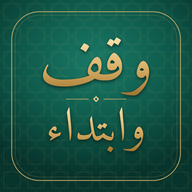
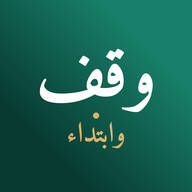
اعتماد الأيقونة المودرن
Claude-Session: https://claude.ai/code/session_01MiH5ppQXnzPuGFahESibeW

diff --git a/sw.js b/sw.js
@@ -1,4 +1,4 @@
-const V='maqati-v2';
+const V='maqati-v3';
 const CORE=['./','index.html','manifest.webmanifest','icon-192.png','icon-512.png','icon-180.png'];
 self.addEventListener('install',e=>{e.waitUntil(caches.open(V).then(c=>c.addAll(CORE)).then(()=>self.skipWaiting()))});
 self.addEventListener('activate',e=>{e.waitUntil(caches.keys().then(ks=>Promise.all(ks.filter(k=>k!==V).map(k=>caches.delete(k)))).then(()=>self.clients.claim()))});
